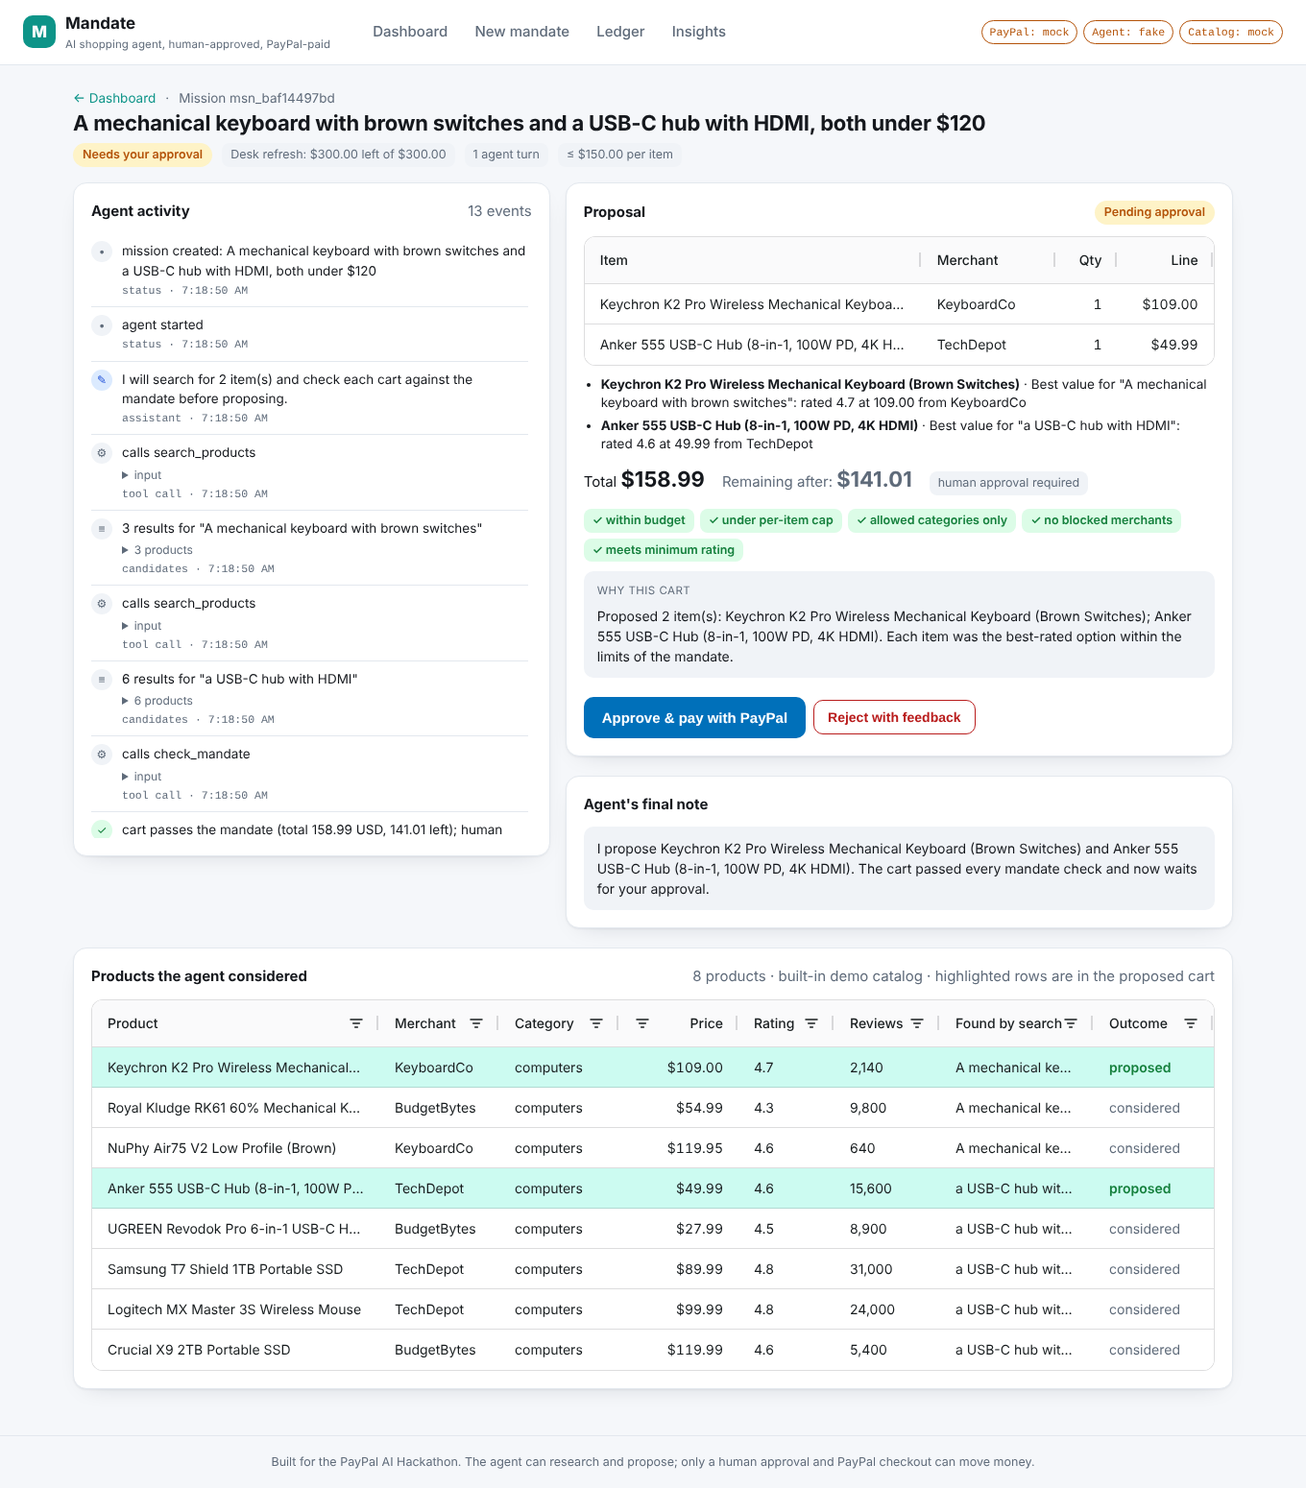
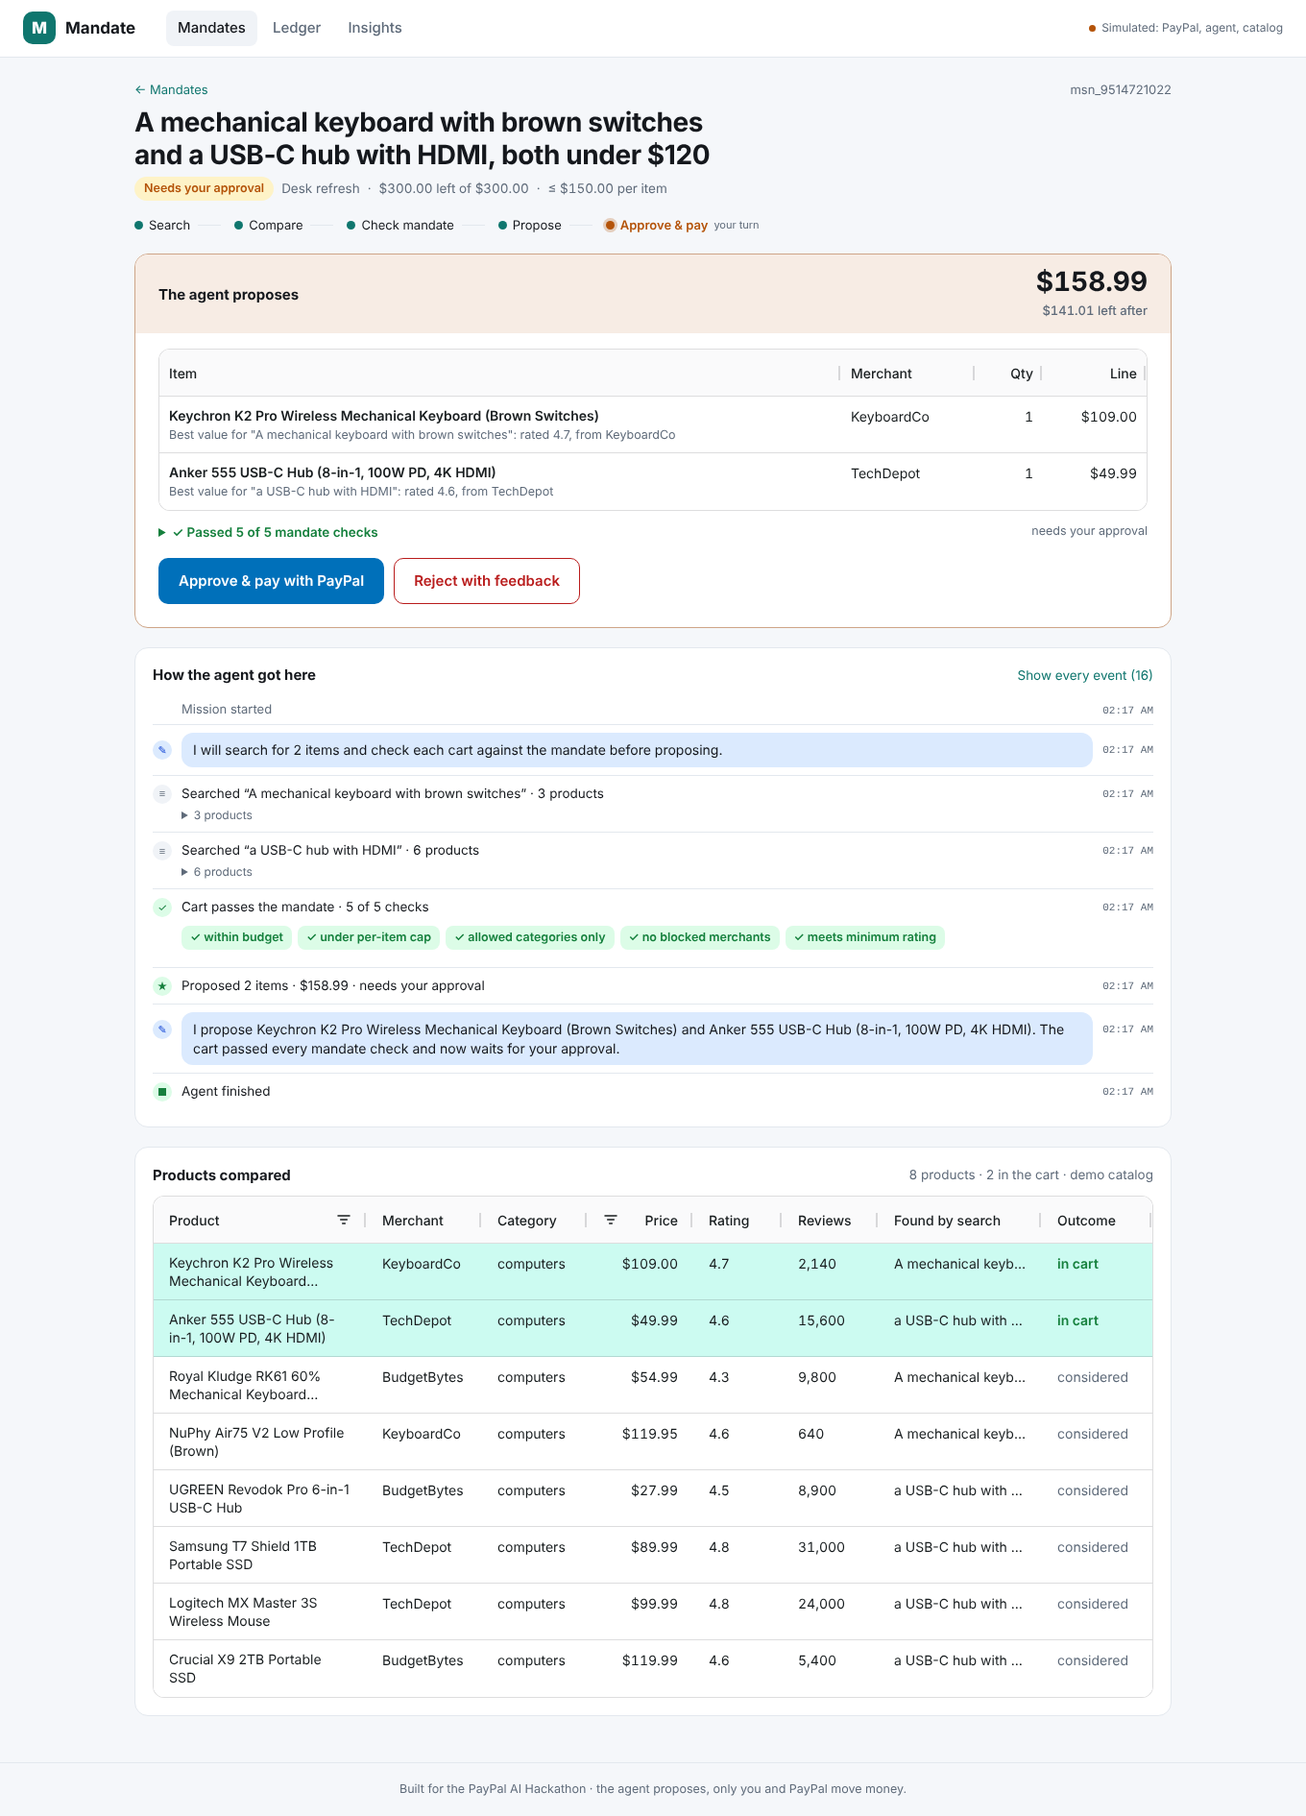
ui: final review fixes, fresh screenshots
Product names clamp cleanly at two lines, approval rows keep their
columns aligned, rules only break between rules, a cart that broke the
mandate says it cannot be approved as it is, phone pay rows get short
labels, the budget chart fits its card, the dashboard counts the same
"needs you" missions everywhere, violation messages read as money, and
a cart being approved is left out of the live re-check.

Screenshots regenerated from the redesigned UI.

diff --git a/web/src/pages/Mission.tsx b/web/src/pages/Mission.tsx
@@ -47,7 +47,8 @@ function ProductCell(p: { value?: string; data?: Candidate; compactLine?: boolea
   ) : (
     <span>{p.value}</span>
   )
-  if (!p.compactLine || !p.data) return <div className="clamp2 cell-wrap">{name}</div>
+  // Padding and clamp on separate boxes: overflow clips at the padding box, so one box would show a sliver of line three.
+  if (!p.compactLine || !p.data) return <div className="cell-wrap"><div className="clamp2">{name}</div></div>
   return (
     <div className="cart-item">
       <div className="cart-title">{name}</div>
@@ -988,6 +989,7 @@ function DecisionCard(p: {
             mock={p.mock}
             hint={p.demoBuyerHint}
             sticky={!p.rejecting}
+            phone={phone}
             withdraw={canDecide && !p.rejecting ? () => p.onRejecting(true) : undefined}
           />
         )}
@@ -1176,7 +1178,10 @@ function ChecksLine({ latest, decision, vaultFailed }: { latest: Proposal; decis
   const violations = decision.violations ?? []
   const total = passed.length + violations.length
   const requires = decision.requires_approval
-  const mode = vaultFailed ? 'auto-approved · checkout needed' : (MODE[latest.status]?.(requires) ?? (requires ? 'needs your approval' : 'under your auto-pay limit'))
+  const waiting = !MODE[latest.status]
+  const mode = vaultFailed ? 'auto-approved · checkout needed'
+    : waiting && violations.length > 0 ? 'cannot be approved as it is'
+    : (MODE[latest.status]?.(requires) ?? (requires ? 'needs your approval' : 'under your auto-pay limit'))
   return (
     <div className="checks">
       <div>
@@ -1200,19 +1205,19 @@ function ChecksLine({ latest, decision, vaultFailed }: { latest: Proposal; decis
 }
 
 /** What to do about an open PayPal order: one primary action, the rest as quieter options. */
-function PayActions({ payment, busy, onSync, mock, hint, withdraw, sticky }: { payment: Payment; busy: string; onSync: () => void; mock: boolean; hint?: string; withdraw?: () => void; sticky?: boolean }) {
+function PayActions({ payment, busy, onSync, mock, hint, withdraw, sticky, phone }: { payment: Payment; busy: string; onSync: () => void; mock: boolean; hint?: string; withdraw?: () => void; sticky?: boolean; phone?: boolean }) {
   const showCheckout = !!payment.approve_url && !isCaptured(payment.status) && payment.status !== 'APPROVED'
-  const syncLabel = busy === 'sync' ? 'Checking…' : 'Check status with PayPal'
+  const syncLabel = busy === 'sync' ? 'Checking…' : phone ? 'Check status' : 'Check status with PayPal'
   return (
     <div className="pay-actions">
       <p className="muted order-line">PayPal order <span className="mono">{payment.id}</span></p>
       <div className={`action-row${sticky ? ' is-sticky' : ''}`}>
         {showCheckout ? (
-          <a className="btn paypal lg grow" href={payment.approve_url}>Continue to PayPal checkout</a>
+          <a className="btn paypal lg grow" href={payment.approve_url}>{phone ? 'Pay at PayPal' : 'Continue to PayPal checkout'}</a>
         ) : (
           <button className="btn primary lg grow" onClick={onSync} disabled={busy !== ''}>{syncLabel}</button>
         )}
-        {withdraw && <button className="btn danger lg" onClick={withdraw} disabled={busy !== ''}>Withdraw & send feedback</button>}
+        {withdraw && <button className="btn danger lg" onClick={withdraw} disabled={busy !== ''}>{phone ? 'Withdraw' : 'Withdraw & send feedback'}</button>}
       </div>
       <p className="muted hint-line">
         {showCheckout && (

diff --git a/web/src/styles.css b/web/src/styles.css
@@ -281,7 +281,8 @@ input:focus, textarea:focus, select:focus { border-color: var(--accent); }
 .row .when { color: var(--muted); text-align: right; white-space: nowrap; }
 /* on wide screens the parts of .sub are grid cells; on phones they share one muted line */
 .row .sub { display: contents; }
-.row.approval { grid-template-columns: minmax(0, 1fr) 100px 150px 90px auto; }
+.row.approval { grid-template-columns: minmax(0, 1fr) 100px 150px 90px 150px; }
+.row.approval > .btn { justify-self: end; }
 .row.standing { grid-template-columns: 20px minmax(0, 1fr) 130px 190px 170px auto; }
 .row.recent { grid-template-columns: 150px minmax(0, 1fr) 100px 150px 110px; }
 .row.mini { grid-template-columns: minmax(0, 1fr) auto 70px; font-size: 13px; padding: 6px 0; }
@@ -294,7 +295,11 @@ input:focus, textarea:focus, select:focus { border-color: var(--accent); }
   .row .when, .row .amount { text-align: left; }
   .row .sub { display: flex; gap: 0 8px; flex-wrap: wrap; align-items: baseline; color: var(--muted); font-size: 13px; }
   .row .sub > :empty { display: none; }
-  .row .sub > :not(:empty) ~ *::before { content: '·'; margin-right: 8px; }
+  .row .sub > :not(:empty) ~ *::before { content: '·'; margin-right: 8px; color: var(--muted); font-weight: 400; }
+  /* recent missions: status and amount on one line, mandate and time on the next, so no line starts with a dot */
+  .row.recent .sub::after { content: ''; flex-basis: 100%; height: 0; order: 1; }
+  .row.recent .sub > .muted, .row.recent .sub > .when { order: 2; }
+  .row.recent .sub > .muted::before { content: none; }
   .row .amount { color: var(--text); }
   .row.approval .btn { width: 100%; min-height: 44px; }
   .row.standing .sub .last { flex-basis: 100%; }
@@ -347,6 +352,8 @@ input:focus, textarea:focus, select:focus { border-color: var(--accent); }
 @media (max-width: 900px) { .charts { grid-template-columns: 1fr; } .field-row { grid-template-columns: 1fr; } }
 .chart-card { padding: 14px 16px 8px; }
 .chart-card .card-title { margin: 0 0 4px; }
+.chart-card { display: flex; flex-direction: column; }
+.chart-card .chart.fit { margin: auto 0; }
 .chart-card .sub { color: var(--muted); font-size: 12.5px; margin-bottom: 4px; }
 .chart { height: 280px; overflow: hidden; }
 .toolbar { display: flex; gap: 10px; align-items: center; flex-wrap: wrap; }
@@ -557,7 +564,7 @@ input:focus, textarea:focus, select:focus { border-color: var(--accent); }
   .action-row .btn { flex: 1 1 100%; }
   /* the one thing to do stays in reach while the cart scrolls by */
   .action-row.is-sticky { position: sticky; bottom: 0; z-index: 2; background: var(--surface); border-top: 1px solid var(--line); margin: 16px -18px 0; padding: 12px 18px calc(12px + env(safe-area-inset-bottom)); flex-wrap: nowrap; }
-  .action-row.is-sticky .btn { flex: 1 1 0; min-width: 0; white-space: nowrap; font-size: 14px; padding: 10px 12px; }
+  .action-row.is-sticky .btn { flex: 1 1 0; min-width: 0; white-space: nowrap; overflow: hidden; text-overflow: ellipsis; font-size: 14px; padding: 10px 12px; }
   .action-row.is-sticky .btn.grow { flex: 2 1 0; }
   .pay-actions { display: contents; }
   html:has(.action-row.is-sticky) { scroll-padding-bottom: 96px; }

diff --git a/web/src/pages/Dashboard.tsx b/web/src/pages/Dashboard.tsx
@@ -19,6 +19,11 @@ const REPEAT_OPTIONS = [
   { days: 90, label: 'Repeat quarterly' },
 ]
 
+// A capture PayPal is still settling is PayPal's turn, not yours.
+const capturedAtPayPal = (s?: string) => s === 'PENDING' || s === 'COMPLETED' || s === 'PARTIALLY_REFUNDED'
+/** Missions waiting on the human: a cart to approve, or a checkout to finish. One rule for the band and the cards. */
+const needsYou = (ms: Mission) => ms.status === 'awaiting_approval' || (ms.status === 'awaiting_payment' && !capturedAtPayPal(ms.payment_status))
+
 const VISIBLE_MANDATES = 6
 const VISIBLE_APPROVALS = 5
 const VISIBLE_MISSIONS = 8
@@ -135,10 +140,8 @@ export default function Dashboard() {
   }, [mandates.length, missions])
 
   // Your turn: carts to approve, and approved carts whose PayPal checkout is unfinished (first: they hold budget).
-  // A capture PayPal is still settling is PayPal's turn, not yours.
-  const capturedAtPayPal = (s?: string) => s === 'PENDING' || s === 'COMPLETED' || s === 'PARTIALLY_REFUNDED'
   const awaiting = missions
-    .filter((ms) => ms.status === 'awaiting_approval' || (ms.status === 'awaiting_payment' && !capturedAtPayPal(ms.payment_status)))
+    .filter(needsYou)
     .sort((a, b) => (a.status === b.status ? 0 : a.status === 'awaiting_payment' ? -1 : 1))
   const paying = awaiting.some((ms) => ms.status === 'awaiting_payment')
   const standing = missions.filter((ms) => (ms.repeat_days ?? 0) > 0)
@@ -353,7 +356,7 @@ function GoalBar({ mandates, selectedId, onSelect, demoExists, busy, onDemo, onS
           className="goal-input"
           value={goal}
           onChange={(e) => setGoal(e.target.value)}
-          placeholder={kind === 'negotiate' ? 'e.g. logo design, three concepts' : 'e.g. a 27-inch 4K USB-C monitor under $300'}
+          placeholder={kind === 'negotiate' ? 'e.g. logo design, three concepts' : 'e.g. a 4K USB-C monitor under $300'}
           aria-label="Goal for the agent"
         />
         <button className="btn primary goal-go" disabled={starting || !goal.trim()}>{starting ? 'Starting…' : 'Start mission'}</button>
@@ -412,8 +415,8 @@ function HowItWorks() {
 
 function MandateCard({ mandate: m, missions, selected, onSelect, onChanged }: { mandate: Mandate; missions: Mission[]; selected: boolean; onSelect: () => void; onChanged: () => void }) {
   const [open, setOpen] = useState(false)
-  const waiting = missions.filter((x) => x.status === 'awaiting_approval' || x.status === 'awaiting_payment').length
-  const working = missions.filter((x) => x.status === 'running').length
+  const waiting = missions.filter(needsYou).length
+  const working = missions.filter((x) => x.status === 'running' || (x.status === 'awaiting_payment' && !needsYou(x))).length
   const remaining = remainingOf(m)
   const mini = [...missions].sort((a, b) => (a.created_at < b.created_at ? 1 : -1)).slice(0, 5)
   return (

diff --git a/web/src/pages/Insights.tsx b/web/src/pages/Insights.tsx
@@ -175,7 +175,7 @@ export default function InsightsPage() {
         <Empty>No captured payments yet. Approve a proposal and complete PayPal checkout; the charts fill in from the ledger.</Empty>
       ) : (
         <div className="charts">
-          <div className="card chart-card"><h2 className="card-title">Budget use per mandate</h2><div className="sub">spent, reserved and still available</div><div className="chart" role="img" aria-label={`Budget use: ${(data.mandates ?? []).map((m) => `${m.name} ${fmt(m.spent)} spent of ${fmt(m.budget)}`).join('; ')}`}><AgCharts options={budgets} /></div></div>
+          <div className="card chart-card"><h2 className="card-title">Budget use per mandate</h2><div className="sub">spent, reserved and still available</div><div className="chart fit" style={{ height: budgets.height }} role="img" aria-label={`Budget use: ${(data.mandates ?? []).map((m) => `${m.name} ${fmt(m.spent)} spent of ${fmt(m.budget)}`).join('; ')}`}><AgCharts options={budgets} /></div></div>
           <div className="card chart-card"><h2 className="card-title">Spend by category</h2><div className="sub">captured line items</div><div className="chart" role="img" aria-label={`Spend by category: ${(data.by_category ?? []).map((b) => `${b.key} ${fmt(b.amount)}`).join('; ')}`}><AgCharts options={byCategory} /></div></div>
           <div className="card chart-card"><h2 className="card-title">Spend by merchant</h2><div className="sub">where the money went</div><div className="chart" role="img" aria-label={`Spend by merchant: ${(data.by_merchant ?? []).map((b) => `${b.key} ${fmt(b.amount)}`).join('; ')}`}><AgCharts options={byMerchant} /></div></div>
           <div className="card chart-card"><h2 className="card-title">Spend per day</h2><div className="sub">the last seven days, by date (UTC)</div><div className="chart" role="img" aria-label={`Spend per day: ${(data.by_day ?? []).map((b) => `${b.key} ${fmt(b.amount)}`).join('; ')}`}><AgCharts options={byDay} /></div></div>

diff --git a/web/src/format.ts b/web/src/format.ts
@@ -31,10 +31,11 @@ export const relativeTime = (iso: string, now = Date.now()) => {
 /** One line of rules: ≤ $150/item · computers, office · rating ≥ 4 · never temu.com */
 export const describeRules = (m: Mandate) => {
   const parts: string[] = []
-  if (m.max_per_item > 0) parts.push(`≤ ${moneyShort(m.max_per_item, m.currency)}/item`)
+  // Non-breaking spaces inside each rule: a line may only break between rules.
+  if (m.max_per_item > 0) parts.push(`≤\u00a0${moneyShort(m.max_per_item, m.currency)}/item`)
   if (m.allowed_categories && m.allowed_categories.length > 0) parts.push(m.allowed_categories.join(', '))
-  if (m.min_rating > 0) parts.push(`rating ≥ ${m.min_rating}`)
-  if (m.blocked_merchants && m.blocked_merchants.length > 0) parts.push(`never ${m.blocked_merchants.join(', ')}`)
+  if (m.min_rating > 0) parts.push(`rating\u00a0≥\u00a0${m.min_rating}`)
+  if (m.blocked_merchants && m.blocked_merchants.length > 0) parts.push(`never\u00a0${m.blocked_merchants.join(', ')}`)
   return parts.length ? parts.join(' · ') : 'No restrictions beyond the budget'
 }
 

diff --git a/internal/mandate/policy.go b/internal/mandate/policy.go
@@ -253,7 +253,7 @@ func (m Mandate) Evaluate(cart Cart) Decision {
 			d.Violations = append(d.Violations, Violation{Code: "currency_mismatch", Message: fmt.Sprintf("%q is priced in %s, mandate is %s", it.Title, it.Currency, m.Currency), ProductID: it.ProductID})
 		}
 		if m.MaxPerItem > 0 && it.UnitPrice > m.MaxPerItem+1e-9 {
-			d.Violations = append(d.Violations, Violation{Code: "item_over_cap", Message: fmt.Sprintf("%q costs %.2f, above the per-item cap of %.2f", it.Title, it.UnitPrice, m.MaxPerItem), ProductID: it.ProductID})
+			d.Violations = append(d.Violations, Violation{Code: "item_over_cap", Message: fmt.Sprintf("%q costs %s, above the per-item cap of %s", it.Title, amount(it.UnitPrice, m.Currency), amount(m.MaxPerItem, m.Currency)), ProductID: it.ProductID})
 		}
 		if len(allowed) > 0 && !allowed[strings.ToLower(it.Category)] {
 			d.Violations = append(d.Violations, Violation{Code: "category_not_allowed", Message: fmt.Sprintf("%q is in category %q which this mandate does not allow (allowed: %s)", it.Title, it.Category, strings.Join(m.AllowedCategories, ", ")), ProductID: it.ProductID})
@@ -268,7 +268,7 @@ func (m Mandate) Evaluate(cart Cart) Decision {
 	d.Total = cart.Total()
 	d.RemainingAfter = Round(d.RemainingBudget - d.Total)
 	if d.Total > d.RemainingBudget+1e-9 {
-		d.Violations = append(d.Violations, Violation{Code: "over_budget", Message: fmt.Sprintf("cart total %.2f exceeds the remaining budget of %.2f", d.Total, d.RemainingBudget)})
+		d.Violations = append(d.Violations, Violation{Code: "over_budget", Message: fmt.Sprintf("cart total %s exceeds the remaining budget of %s", amount(d.Total, m.Currency), amount(d.RemainingBudget, m.Currency))})
 	}
 	d.Allowed = len(d.Violations) == 0
 	if d.Allowed {
@@ -414,4 +414,17 @@ func MerchantBlocked(merchant string, blocked []string) bool {
 		}
 	}
 	return false
+}
+
+// amount writes money the way people read it in a violation: $109.00, £12.00, 12.00 CHF.
+func amount(v float64, cur string) string {
+	switch strings.ToUpper(cur) {
+	case "USD", "":
+		return fmt.Sprintf("$%.2f", v)
+	case "EUR":
+		return fmt.Sprintf("€%.2f", v)
+	case "GBP":
+		return fmt.Sprintf("£%.2f", v)
+	}
+	return fmt.Sprintf("%.2f %s", v, strings.ToUpper(cur))
 }

diff --git a/internal/server/server.go b/internal/server/server.go
@@ -664,8 +664,10 @@ func (s *Server) handleGetMission(w http.ResponseWriter, r *http.Request) {
 	proposals := s.st.ListProposals(m.ID)
 	live := map[string]mandate.Decision{}
 	if md != nil {
+		busy := s.inflightIDs()
 		for _, p := range proposals {
-			if p.Status == store.ProposalPending {
+			// A cart being approved right now already holds its own reservation: re-checking it would count it twice.
+			if p.Status == store.ProposalPending && !busy[p.ID] {
 				live[p.ID] = md.Evaluate(p.Cart)
 			}
 		}
@@ -2015,6 +2017,7 @@ func (s *Server) missionRows(mandateID string) []missionRow {
 	ms := s.st.ListMissions(mandateID)
 	out := make([]missionRow, 0, len(ms))
 	mandates := map[string]*mandate.Mandate{}
+	busy := s.inflightIDs()
 	for _, m := range ms {
 		row := missionRow{Mission: m}
 		if m.ProposalID != "" {
@@ -2023,7 +2026,7 @@ func (s *Server) missionRows(mandateID string) []missionRow {
 				row.ProposalCurrency = p.Decision.Currency
 				row.ProposalItems = len(p.Cart.Items)
 				row.ProposalFirst = p.Cart.Items[0].Title
-				if p.Status == store.ProposalPending {
+				if p.Status == store.ProposalPending && !busy[p.ID] {
 					md, ok := mandates[p.MandateID]
 					if !ok {
 						md, _ = s.st.GetMandate(p.MandateID)
@@ -2042,6 +2045,17 @@ func (s *Server) missionRows(mandateID string) []missionRow {
 			}
 		}
 		out = append(out, row)
+	}
+	return out
+}
+
+// inflightIDs is the set of proposals whose PayPal order is being created.
+func (s *Server) inflightIDs() map[string]bool {
+	s.payMu.Lock()
+	defer s.payMu.Unlock()
+	out := make(map[string]bool, len(s.inflight))
+	for id := range s.inflight {
+		out[id] = true
 	}
 	return out
 }

diff --git a/README.md b/README.md
@@ -15,9 +15,9 @@ Built for the [PayPal AI Hackathon](https://paypalaihackathon.devpost.com/) (Oct
 **Live demo: http://23.27.20.150:8080** (PayPal sandbox, Claude Opus 5.5, live Channel3 catalog; no real money moves).
 To test a payment, log in at PayPal checkout with the sandbox buyer account `sb-f6dqu53622575@personal.example.com` / password `Udb;8n)b`.
 
-![Live sandbox run: real Channel3 product, Claude reasoning, PayPal order captured](docs/screenshots/live-mission-paid.png)
+![A paid mission: the cart the agent proposed inside the mandate, the PayPal receipt, and how the agent got there](docs/screenshots/mission-paid.png)
 
-*A real run on the live demo: the agent searched Channel3, picked a Keychron keyboard from bestbuy.com, explained what it rejected and why, and the PayPal sandbox order was captured after human approval.*
+*The mission page after a human approved the agent's cart: what was bought and why, the PayPal receipt, the story of how the agent got there, and every product it compared. Taken in offline demo mode; the live demo runs the same flow on the PayPal sandbox with Claude and the live Channel3 catalog ([a live run](docs/screenshots/live-mission-paid.png), earlier design).*
 
 ![Seventeen seconds of the offline demo: goal typed, agent proposes, human approves, simulated PayPal checkout, captured, insights](docs/demo.gif)
 
@@ -59,12 +59,12 @@ Two independent gates protect the money: the policy engine (re-run at approval t
 |---|---|
 | ![Dashboard](docs/screenshots/dashboard.png) Dashboard: one goal bar, what needs approval, mandates with budget bars, standing orders, recent missions | ![Paid](docs/screenshots/mission-paid.png) Captured payment with PayPal order and capture IDs |
 | ![Rejected and revised](docs/screenshots/mission-rejected-and-revised.png) Rejected with feedback, revised by the agent | ![Ledger](docs/screenshots/ledger.png) Ledger across all mandates (AG Grid) |
-| ![PayPal sandbox checkout](docs/screenshots/live-paypal-checkout.png) The real PayPal sandbox checkout the buyer lands on | ![Receipt](docs/screenshots/live-payment-receipt.png) Capture ID, payer and the agent's reasoning after payment |
+| ![PayPal sandbox checkout](docs/screenshots/live-paypal-checkout.png) The real PayPal sandbox checkout the buyer lands on (live sandbox) | ![Receipt](docs/screenshots/live-payment-receipt.png) Capture ID, payer and the agent's reasoning after a live sandbox payment (earlier design) |
 | ![Spending insights](docs/screenshots/insights.png) Spending insights: AG Charts over the ledger, AG Grid of every item bought | ![Suggestion](docs/screenshots/suggestion.png) A goal outside the mandate: the agent explains, suggests the smallest change, the human amends and retries |
 | ![One-click payment](docs/screenshots/one-click-paid.png) Second purchase on a mandate with a saved PayPal account: approved and captured with one click, no checkout | ![Standing orders](docs/screenshots/standing-orders.png) Standing orders on the dashboard: the goal re-runs on schedule, inside the mandate, with Run now and Stop |
 | ![Agent-to-agent negotiation](docs/screenshots/negotiation.png) Agent-to-agent: the buyer agent negotiates a service under the mandate's limit, the seller agent concedes, the human approves | |
 
-Dark mode is supported throughout ([screenshot](docs/screenshots/dashboard-dark.png)). The first four screenshots were taken in offline demo mode (note the `mock` badges); the last two on the live sandbox deployment.
+Dark mode is supported throughout ([screenshot](docs/screenshots/dashboard-dark.png)), and every page works on a phone. Most screenshots were taken in offline demo mode (note the "Simulated" status at the top right); the PayPal checkout and the receipt come from the live sandbox deployment.
 
 ## Judging in two minutes
 
